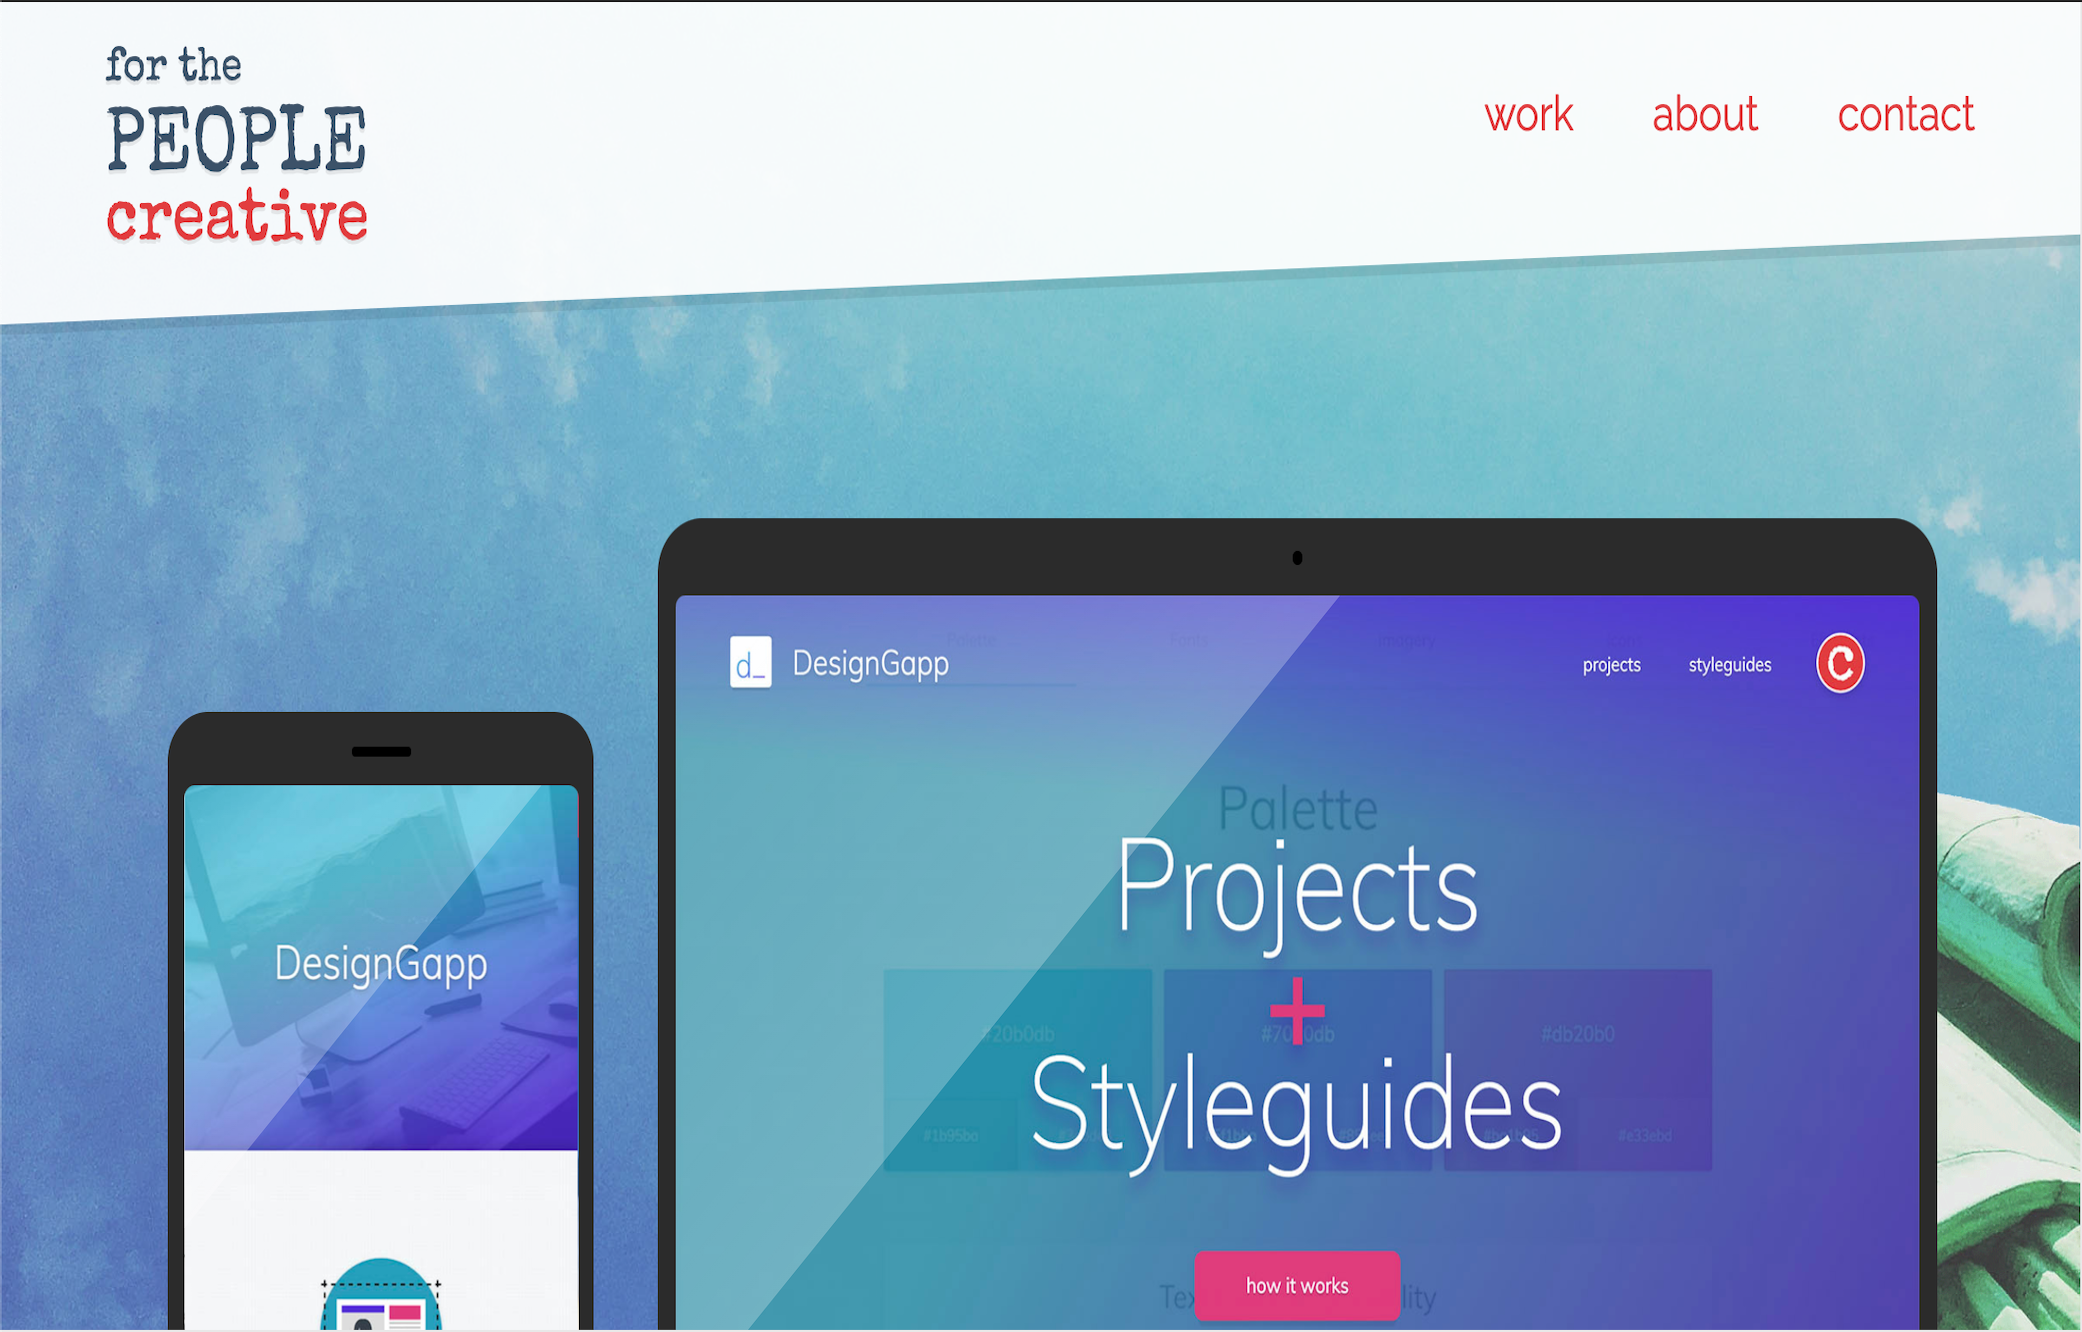
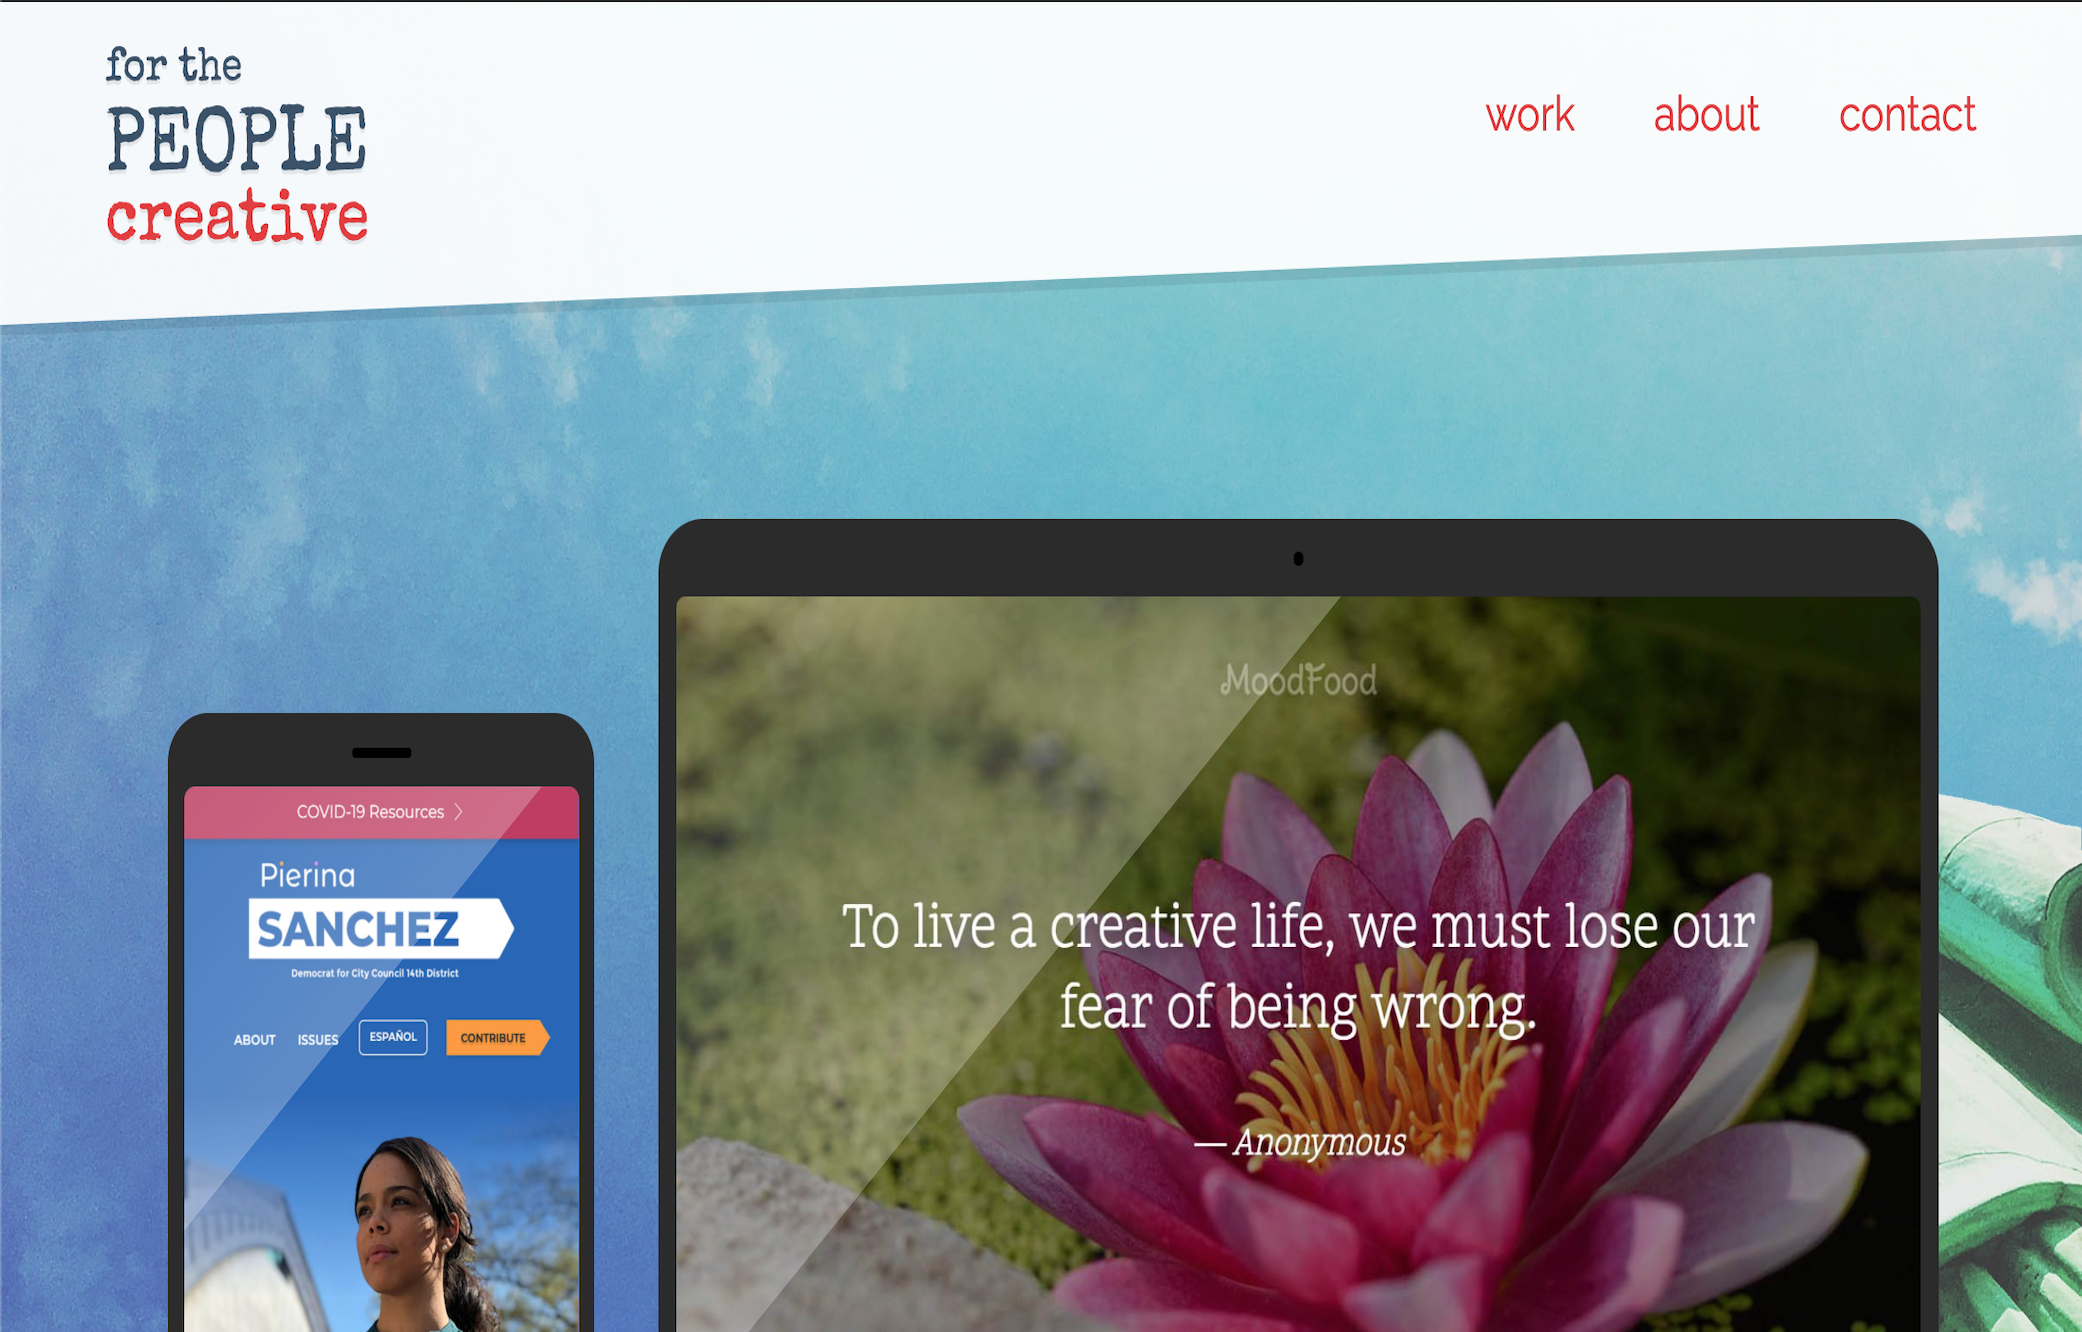
getting closer with projects

diff --git a/src/styles/App.css b/src/styles/App.css
@@ -177,9 +177,13 @@ nav {
   align-items: center; }
   .project-card:not(:last-of-type) {
     margin-bottom: 100px; }
-  .project-card:nth-of-type(odd) .project-text-wrapper {
+  .project-card:nth-of-type(even) .project-text-wrapper {
     grid-area: 1 / 1 / -1 / 7;
-    grid-column: 1 / 9; }
+    grid-column: 1 / 6; }
+  .project-card:nth-of-type(even) .project-title-other, .project-card:nth-of-type(even) .project-paragraph {
+    text-align: left; }
+  .project-card:nth-of-type(even) .project-image__wrapper {
+    grid-area: 1 / 6 / -1 / -1; }
 
 .project-card a {
   text-decoration: none; }
@@ -278,8 +282,6 @@ nav {
   position: relative; }
 
 @media only screen and (max-width: 980px) {
-  .main-project {
-    display: table; }
   .project-text-container {
     width: auto;
     max-width: 25em;

diff --git a/src/styles/components/_projects.sass b/src/styles/components/_projects.sass
@@ -40,10 +40,15 @@
   align-items: center
   &:not(:last-of-type)
     margin-bottom: 100px
-  &:nth-of-type(odd)
+  &:nth-of-type(even)
     .project-text-wrapper
       grid-area: 1 / 1 / -1 / 7
-      grid-column: 1 / 9
+      grid-column: 1 / 6
+    .project-title-other, .project-paragraph
+      text-align: left
+    .project-image__wrapper
+      grid-area: 1 / 6 / -1 / -1
+
 .project-card a
   text-decoration: none
 
@@ -143,8 +148,6 @@
   position: relative
 
 @media only screen and (max-width: 980px)
-  .main-project
-    display: table
   .project-text-container
     width: auto
     max-width: 25em
